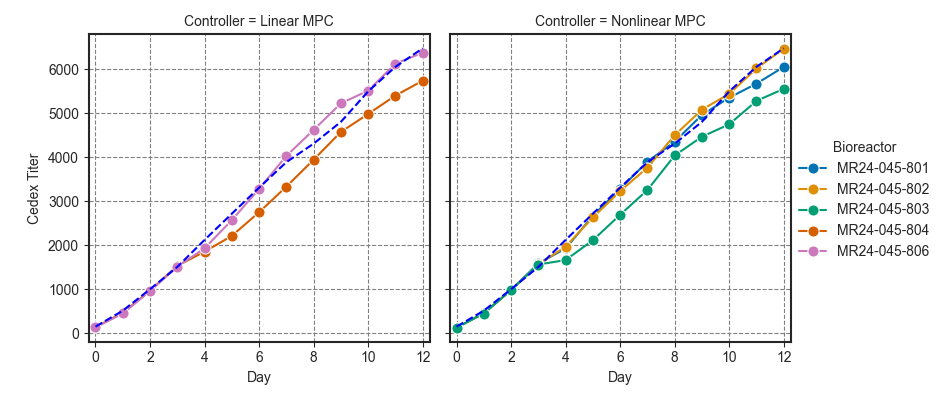
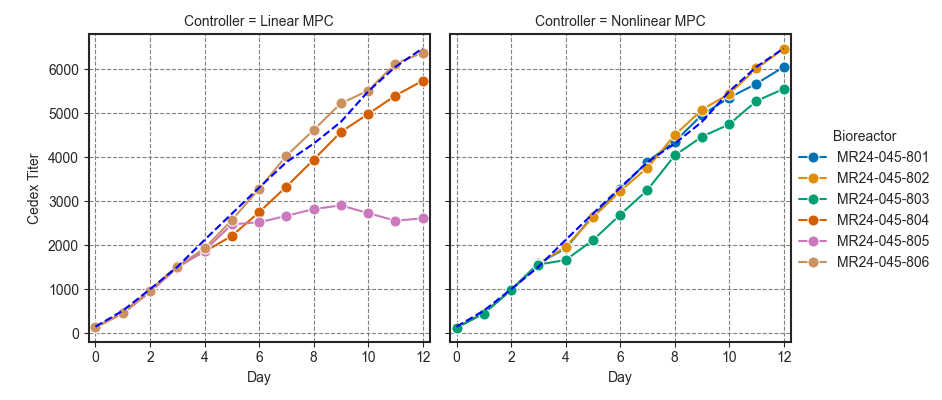
added pO2 to graphs

diff --git a/src/mpc_graphs_3L.py b/src/mpc_graphs_3L.py
@@ -16,7 +16,7 @@ plt.rcParams["axes.linewidth"] = 1.5
 sns.set_style("ticks")
 
 # Options
-PALETTE = sns.color_palette("colorblind", 5)
+PALETTE = sns.color_palette("colorblind", 6)
 DATA_FILE = "data/mr24-045-experiment/MR24-045-MasterDataTable.xlsx"
 MPC_GRP = "all"
 CONFIG = {
@@ -31,7 +31,7 @@ CONFIG = {
             "MR24-045-802",
             "MR24-045-803",
             "MR24-045-804",
-            # "MR24-045-805",
+            "MR24-045-805",
             "MR24-045-806",
             ],
     },
@@ -69,7 +69,8 @@ DISP_VARS = [
     "Viability",
     "VCC",
     "Lactate",
-    "Glucose"
+    "Glucose",
+    "pO2"
 ]  # ,"HPLC Titer","Lactate","Glucose","pCO2"]
 
 
@@ -121,7 +122,7 @@ df_data_selected = df_data.loc[
         "Lactate",
         "Glucose",
         "pCO2",
-        # "Temp/pH",
+        "pO2",
         "Total Feed",
         "Total Glucose",
         "Daily Feed",
